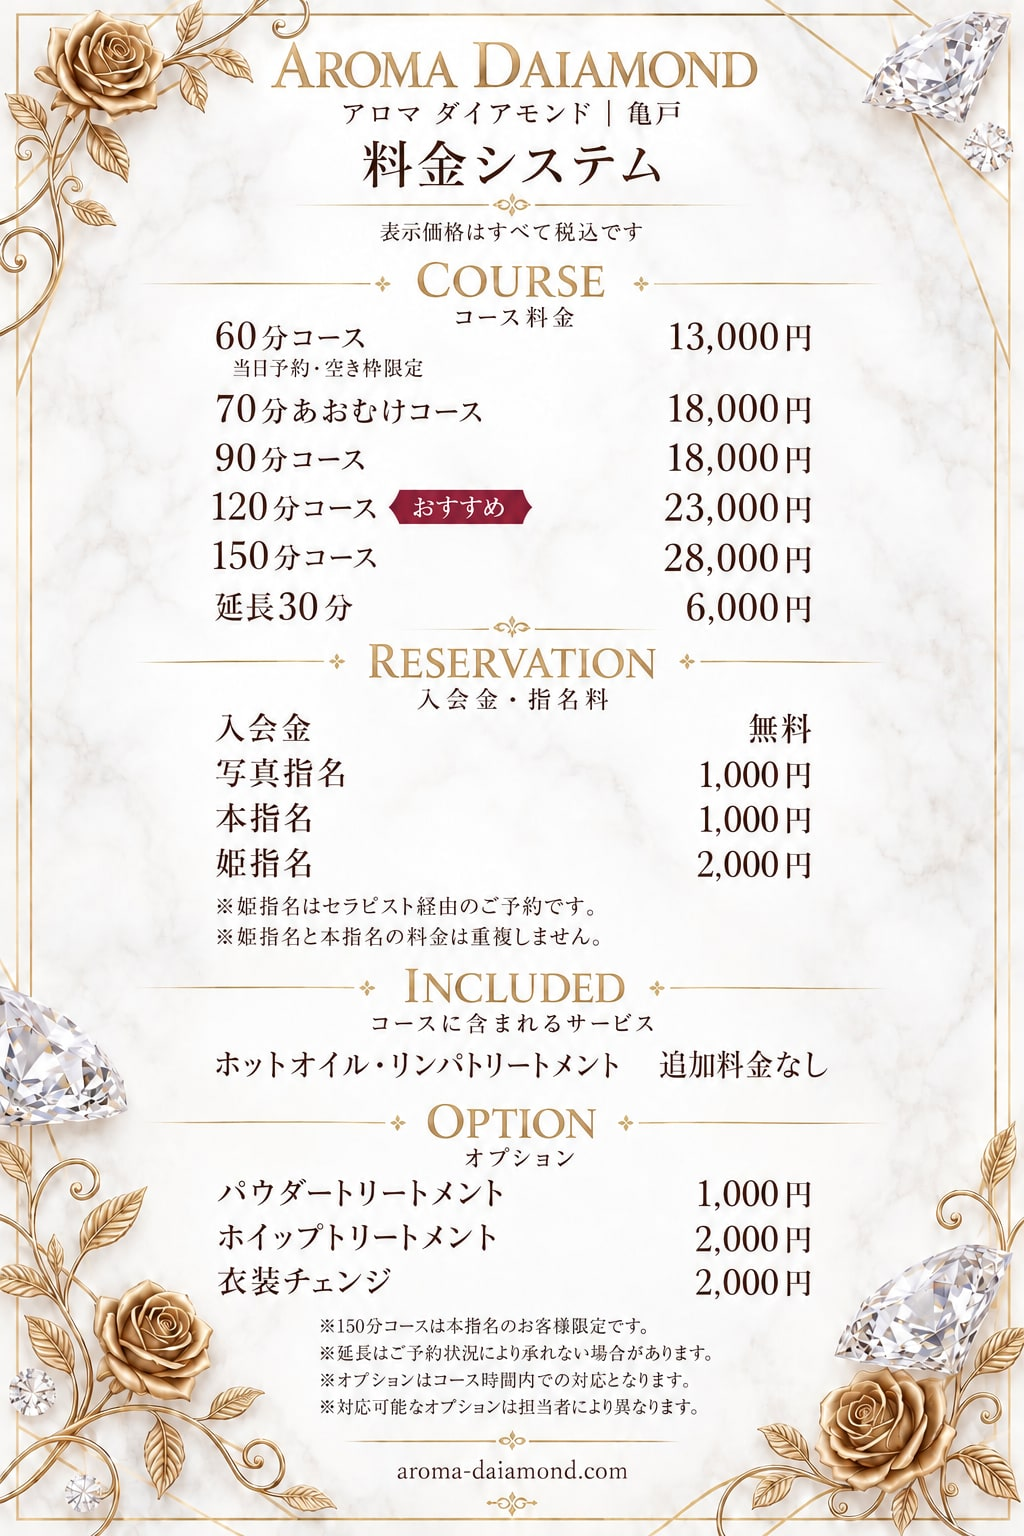
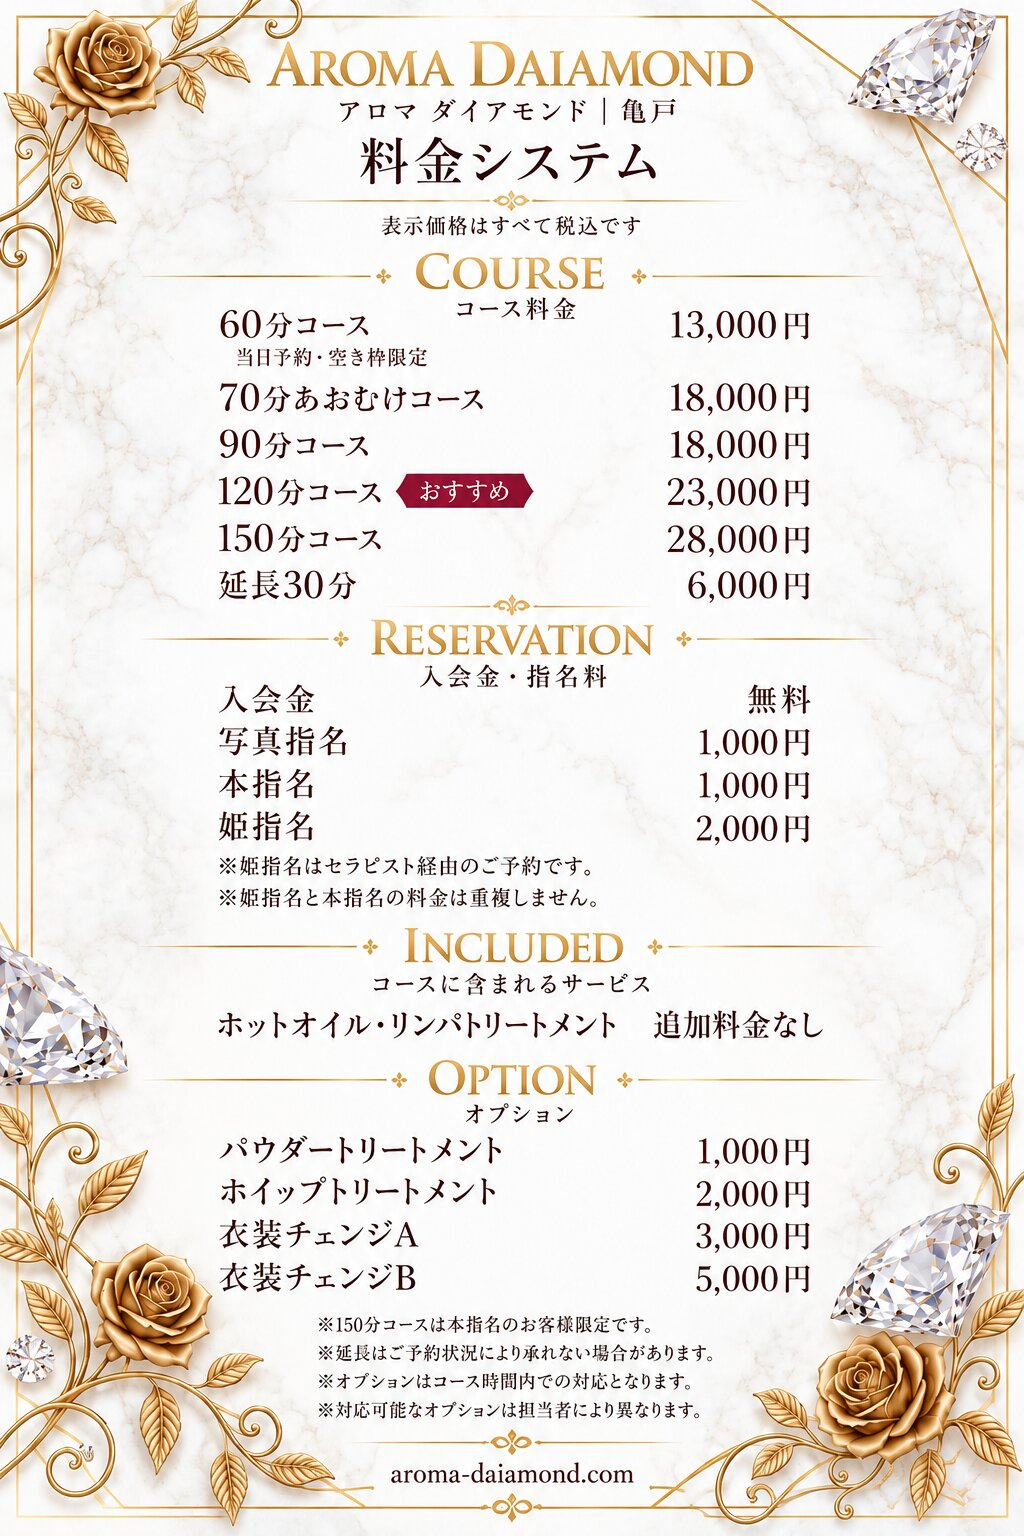
料金表を新しい画像に差し替え、衣装チェンジをA（3,000円）・B（5,000円）に変更 (#187)
- 料金ページの料金表画像を差し替え（public/system-price.jpg）
- 料金ページのオプション表（文字）：衣装チェンジ 2,000円 → 衣装チェンジA 3,000円／B 5,000円
- 予約管理API：料金設定シートを新しく作るときの初期値も同じ金額に（既存のシートは変更しない）
- 精算テストを新しい金額に更新。版 2026-10-22-1

Claude-Session: https://claude.ai/code/session_01UpCB7uCib8oiBmR56S5Apk

diff --git a/apps-script/booking/Admin.html b/apps-script/booking/Admin.html
@@ -397,7 +397,7 @@
       { label: "延長30分", price: 6000 },
     ];
     var STAFF_EMAIL = "<?= staffEmail ?>";
-    var APP_VERSION = "2026-10-18-1"; // Code.gs の CODE_VERSION・lib.gs の LIB_VERSION と同じ値
+    var APP_VERSION = "2026-10-22-1"; // Code.gs の CODE_VERSION・lib.gs の LIB_VERSION と同じ値
 
     // 画面の不具合を「読み込み中」のまま止めず、理由を表示する
     function showVerWarn(msg){ var b=document.getElementById("ver-warn"); b.innerHTML=msg; b.style.display="block"; }
